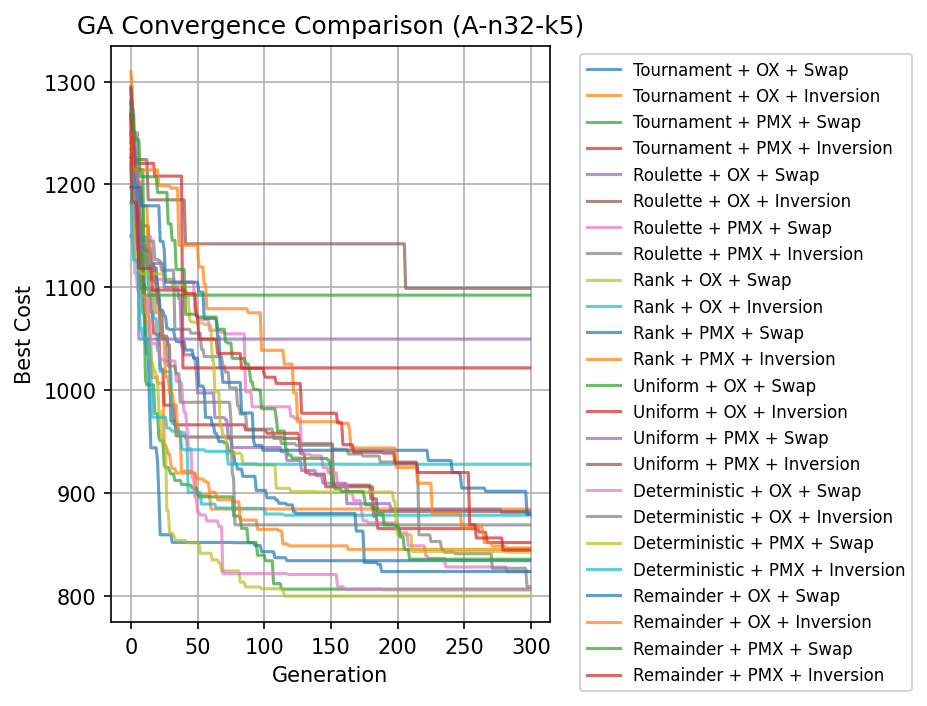
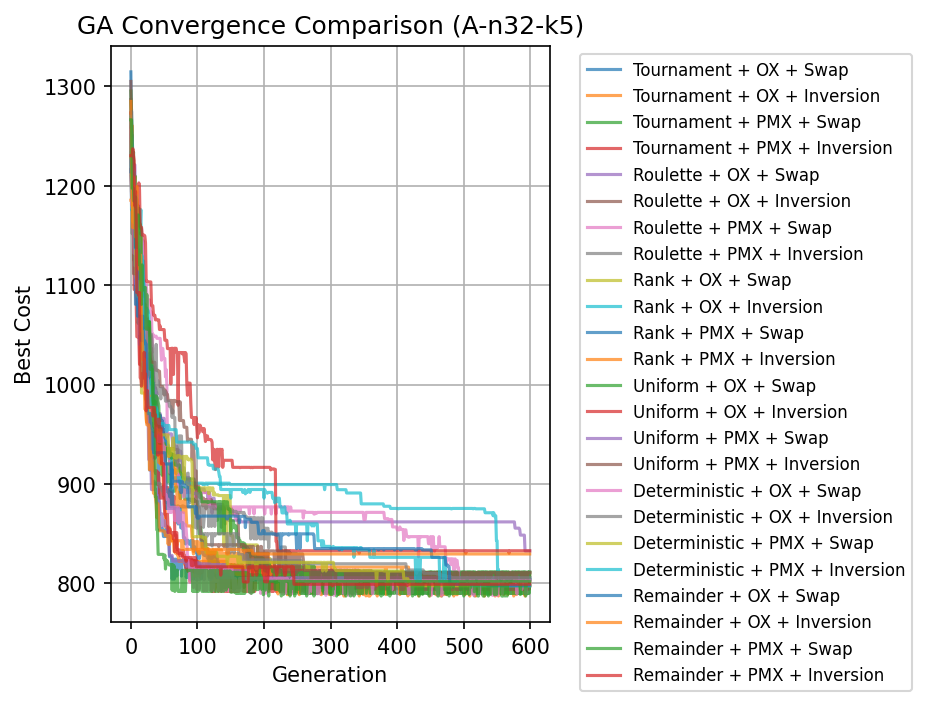
best cost

diff --git a/Algo-GEN/ga.py b/Algo-GEN/ga.py
@@ -3,9 +3,9 @@ import random
 import time
 from src.cost import solution_cost
 
-# -----------------------------
-# Decode chromosome to routes
-# -----------------------------
+# =====================================================
+# Decode chromosome to CVRP routes
+# =====================================================
 def decode(chromosome, instance):
     routes = []
     route = [instance["depot"]]
@@ -26,22 +26,20 @@ def decode(chromosome, instance):
     routes.append(route)
     return routes
 
-# -----------------------------
-# Chromosome validation / repair
-# -----------------------------
+
+# =====================================================
+# Validation / repair
+# =====================================================
 def is_valid_chromosome(chrom, customers):
-    return (
-        chrom is not None and
-        len(chrom) == len(customers) and
-        set(chrom) == set(customers)
-    )
+    return chrom is not None and len(chrom) == len(customers) and set(chrom) == set(customers)
 
 def repair_chromosome(customers):
     return random.sample(customers, len(customers))
 
-# -----------------------------
+
+# =====================================================
 # Local search: 2-opt
-# -----------------------------
+# =====================================================
 def _route_cost(route, dist):
     return sum(dist[(route[i], route[i+1])] for i in range(len(route)-1))
 
@@ -68,9 +66,84 @@ def two_opt_route(route, dist):
 def local_search_solution(solution, dist):
     return [two_opt_route(r, dist) for r in solution]
 
-# -----------------------------
-# Genetic Algorithm
-# -----------------------------
+
+# =====================================================
+# Inter-route relocate move
+# =====================================================
+def relocate_move(solution, instance):
+    sol = [r[:] for r in solution]
+
+    if len(sol) < 2:
+        return solution
+
+    r1, r2 = random.sample(range(len(sol)), 2)
+    route1 = sol[r1][1:-1]
+    route2 = sol[r2][1:-1]
+
+    if not route1:
+        return solution
+
+    cust = random.choice(route1)
+    demand = instance["demands"][cust]
+    load2 = sum(instance["demands"][c] for c in route2)
+
+    if load2 + demand > instance["capacity"]:
+        return solution
+
+    route1.remove(cust)
+    pos = random.randint(0, len(route2))
+    route2.insert(pos, cust)
+
+    sol[r1] = [instance["depot"]] + route1 + [instance["depot"]]
+    sol[r2] = [instance["depot"]] + route2 + [instance["depot"]]
+
+    return sol
+
+
+# =====================================================
+# Inter-route exchange move
+# =====================================================
+def exchange_move(solution, instance):
+    sol = [r[:] for r in solution]
+
+    if len(sol) < 2:
+        return solution
+
+    r1, r2 = random.sample(range(len(sol)), 2)
+    route1 = sol[r1][1:-1]
+    route2 = sol[r2][1:-1]
+
+    if not route1 or not route2:
+        return solution
+
+    c1 = random.choice(route1)
+    c2 = random.choice(route2)
+
+    d1 = instance["demands"][c1]
+    d2 = instance["demands"][c2]
+
+    load1 = sum(instance["demands"][c] for c in route1)
+    load2 = sum(instance["demands"][c] for c in route2)
+
+    if load1 - d1 + d2 > instance["capacity"]:
+        return solution
+    if load2 - d2 + d1 > instance["capacity"]:
+        return solution
+
+    i1 = route1.index(c1)
+    i2 = route2.index(c2)
+
+    route1[i1], route2[i2] = c2, c1
+
+    sol[r1] = [instance["depot"]] + route1 + [instance["depot"]]
+    sol[r2] = [instance["depot"]] + route2 + [instance["depot"]]
+
+    return sol
+
+
+# =====================================================
+# Genetic Algorithm (Memetic CVRP)
+# =====================================================
 def genetic_algorithm(
     instance,
     dist,
@@ -93,16 +166,31 @@ def genetic_algorithm(
     start_time = time.time()
 
     for gen in range(generations):
-        fitnesses, costs = [], []
+        fitnesses = []
+        costs = []
 
         # ---------- Evaluation ----------
         for chrom in population:
-            sol = decode(chrom, instance)
+            try:
+                if not is_valid_chromosome(chrom, customers):
+                    chrom = repair_chromosome(customers)
 
-            # ✅ Local search (clé pour ~797)
-            sol = local_search_solution(sol, dist)
+                sol = decode(chrom, instance)
 
-            cost = solution_cost(sol, dist)
+                # intra-route
+                sol = local_search_solution(sol, dist)
+
+                # inter-route
+                if random.random() < 0.7:
+                    sol = relocate_move(sol, instance)
+                if random.random() < 0.4:
+                    sol = exchange_move(sol, instance)
+
+                cost = solution_cost(sol, dist)
+
+            except Exception:
+                cost = 1e12  # pénalité
+
             costs.append(cost)
             fitnesses.append(1.0 / (cost + 1e-9))
 
@@ -125,13 +213,16 @@ def genetic_algorithm(
             if random.random() < pm:
                 child = mutation(child)
 
-            # ✅ sécurité ضد PMX
             if not is_valid_chromosome(child, customers):
                 child = repair_chromosome(customers)
 
             new_population.append(child)
 
         population = new_population
-        history.append(min(costs))
+
+        if len(costs) > 0:
+            history.append(min(costs))
+        else:
+            history.append(best_cost)
 
     return best_chrom, best_cost, history, time.time() - start_time

diff --git a/Algo-GEN/main.py b/Algo-GEN/main.py
@@ -99,16 +99,17 @@ for idx, (name, sel, cross, mut) in enumerate(experiments, 1):
         print(f"  Run {run+1}/{RUNS} ...")
 
         best_chrom, best_cost, history, exec_time = genetic_algorithm(
-            instance,
-            dist=dist,
-            selection=sel,
-            crossover=cross,
-            mutation=mut,
-            pop_size=80,
-            generations=300,
-            px=0.9,
-            pm=0.25
-        )
+        instance,
+        dist,
+        selection=rank_selection,
+        crossover=order_crossover,
+        mutation=swap_mutation,
+        pop_size=120,
+        generations=600,
+        px=0.9,
+        pm=0.25
+)
+
 
         # Decode + final local search
         sol = decode(best_chrom, instance)
